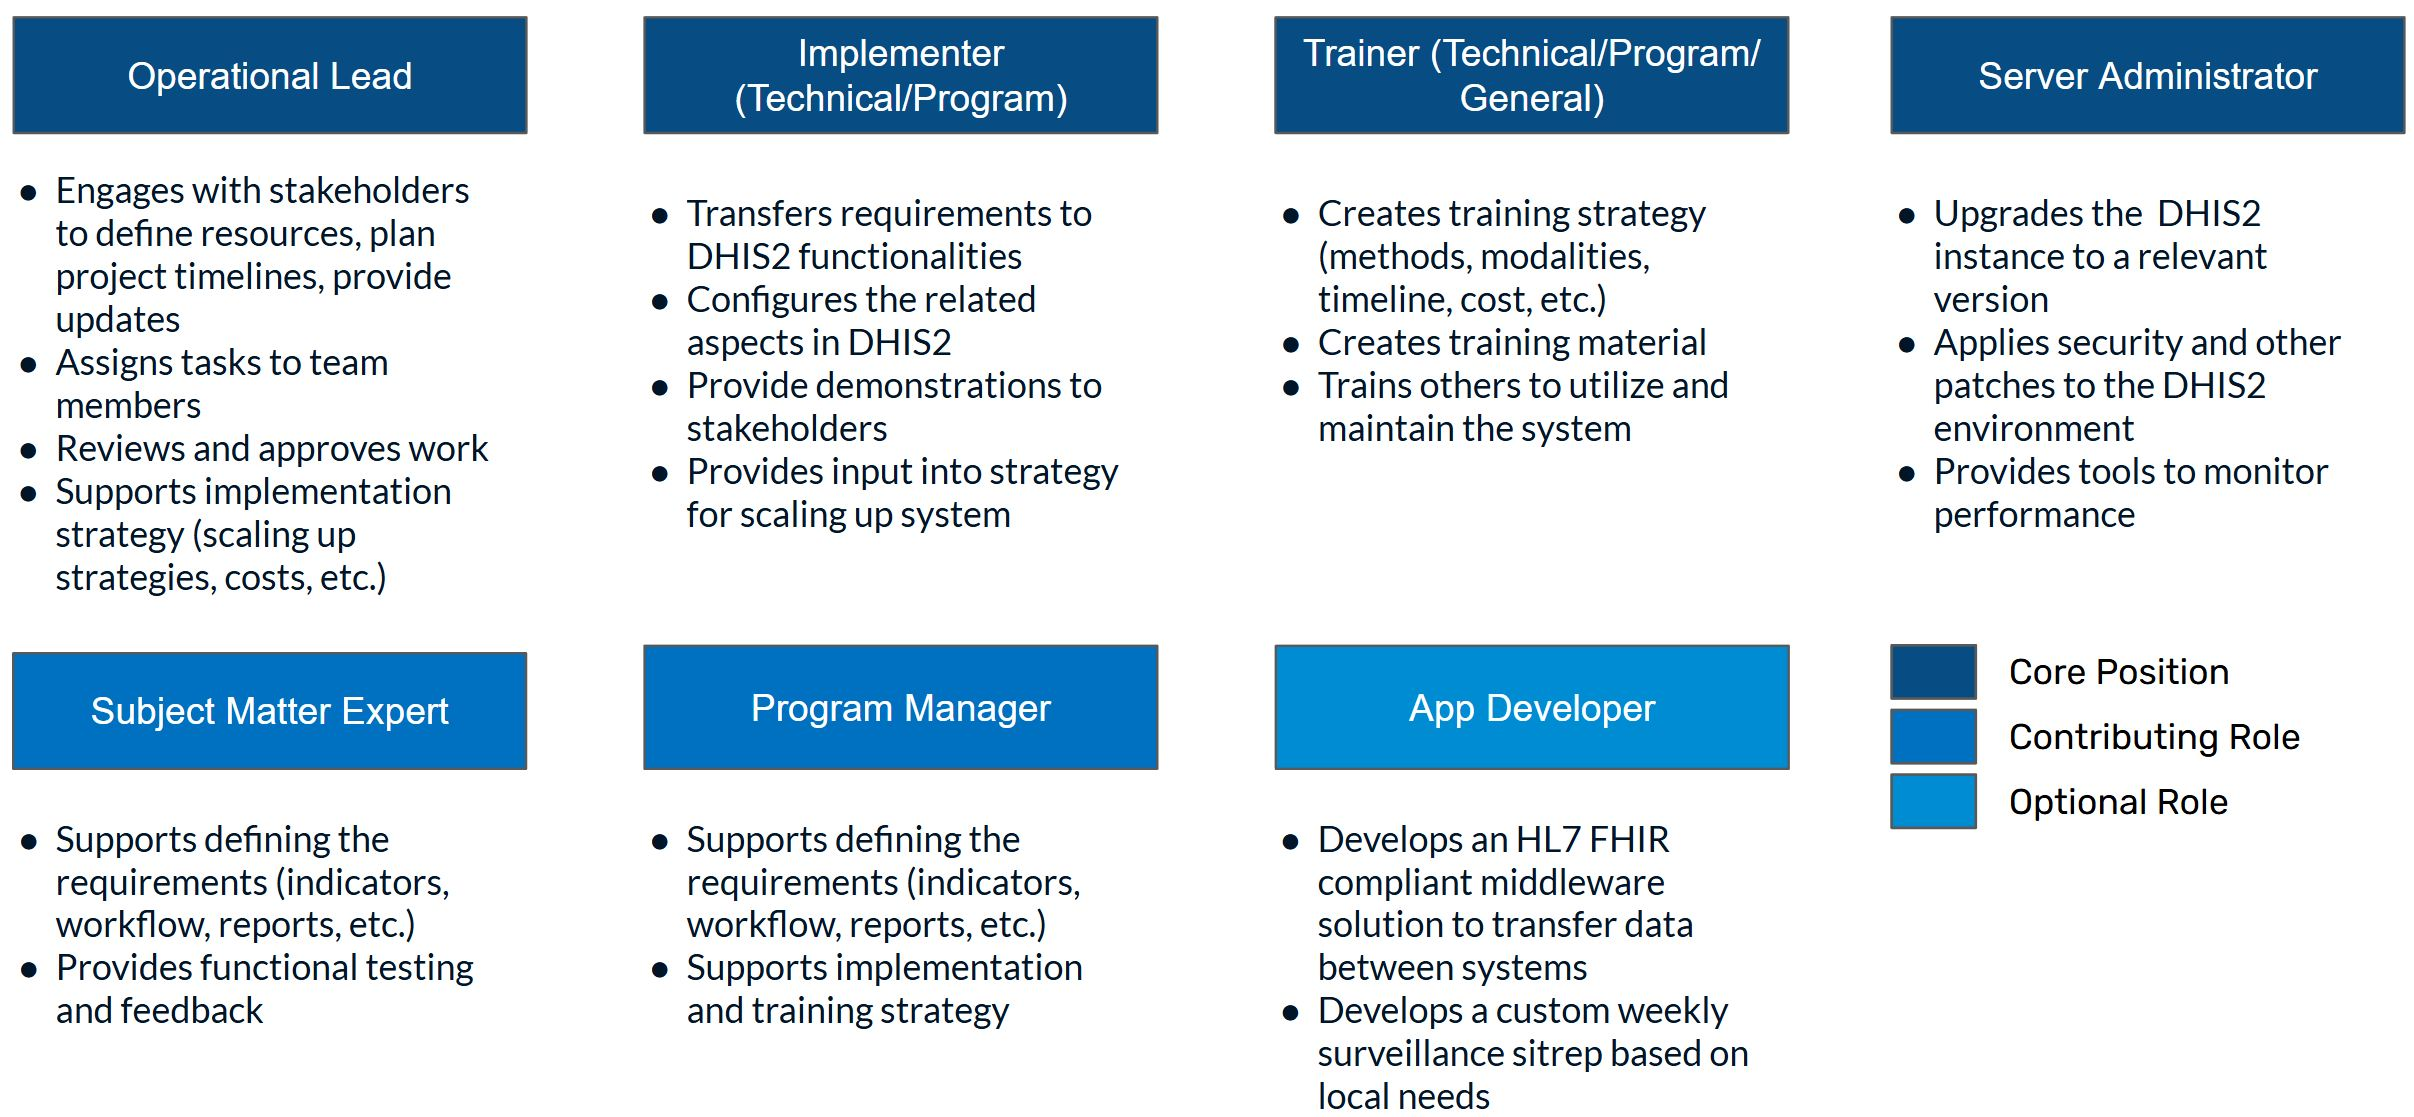
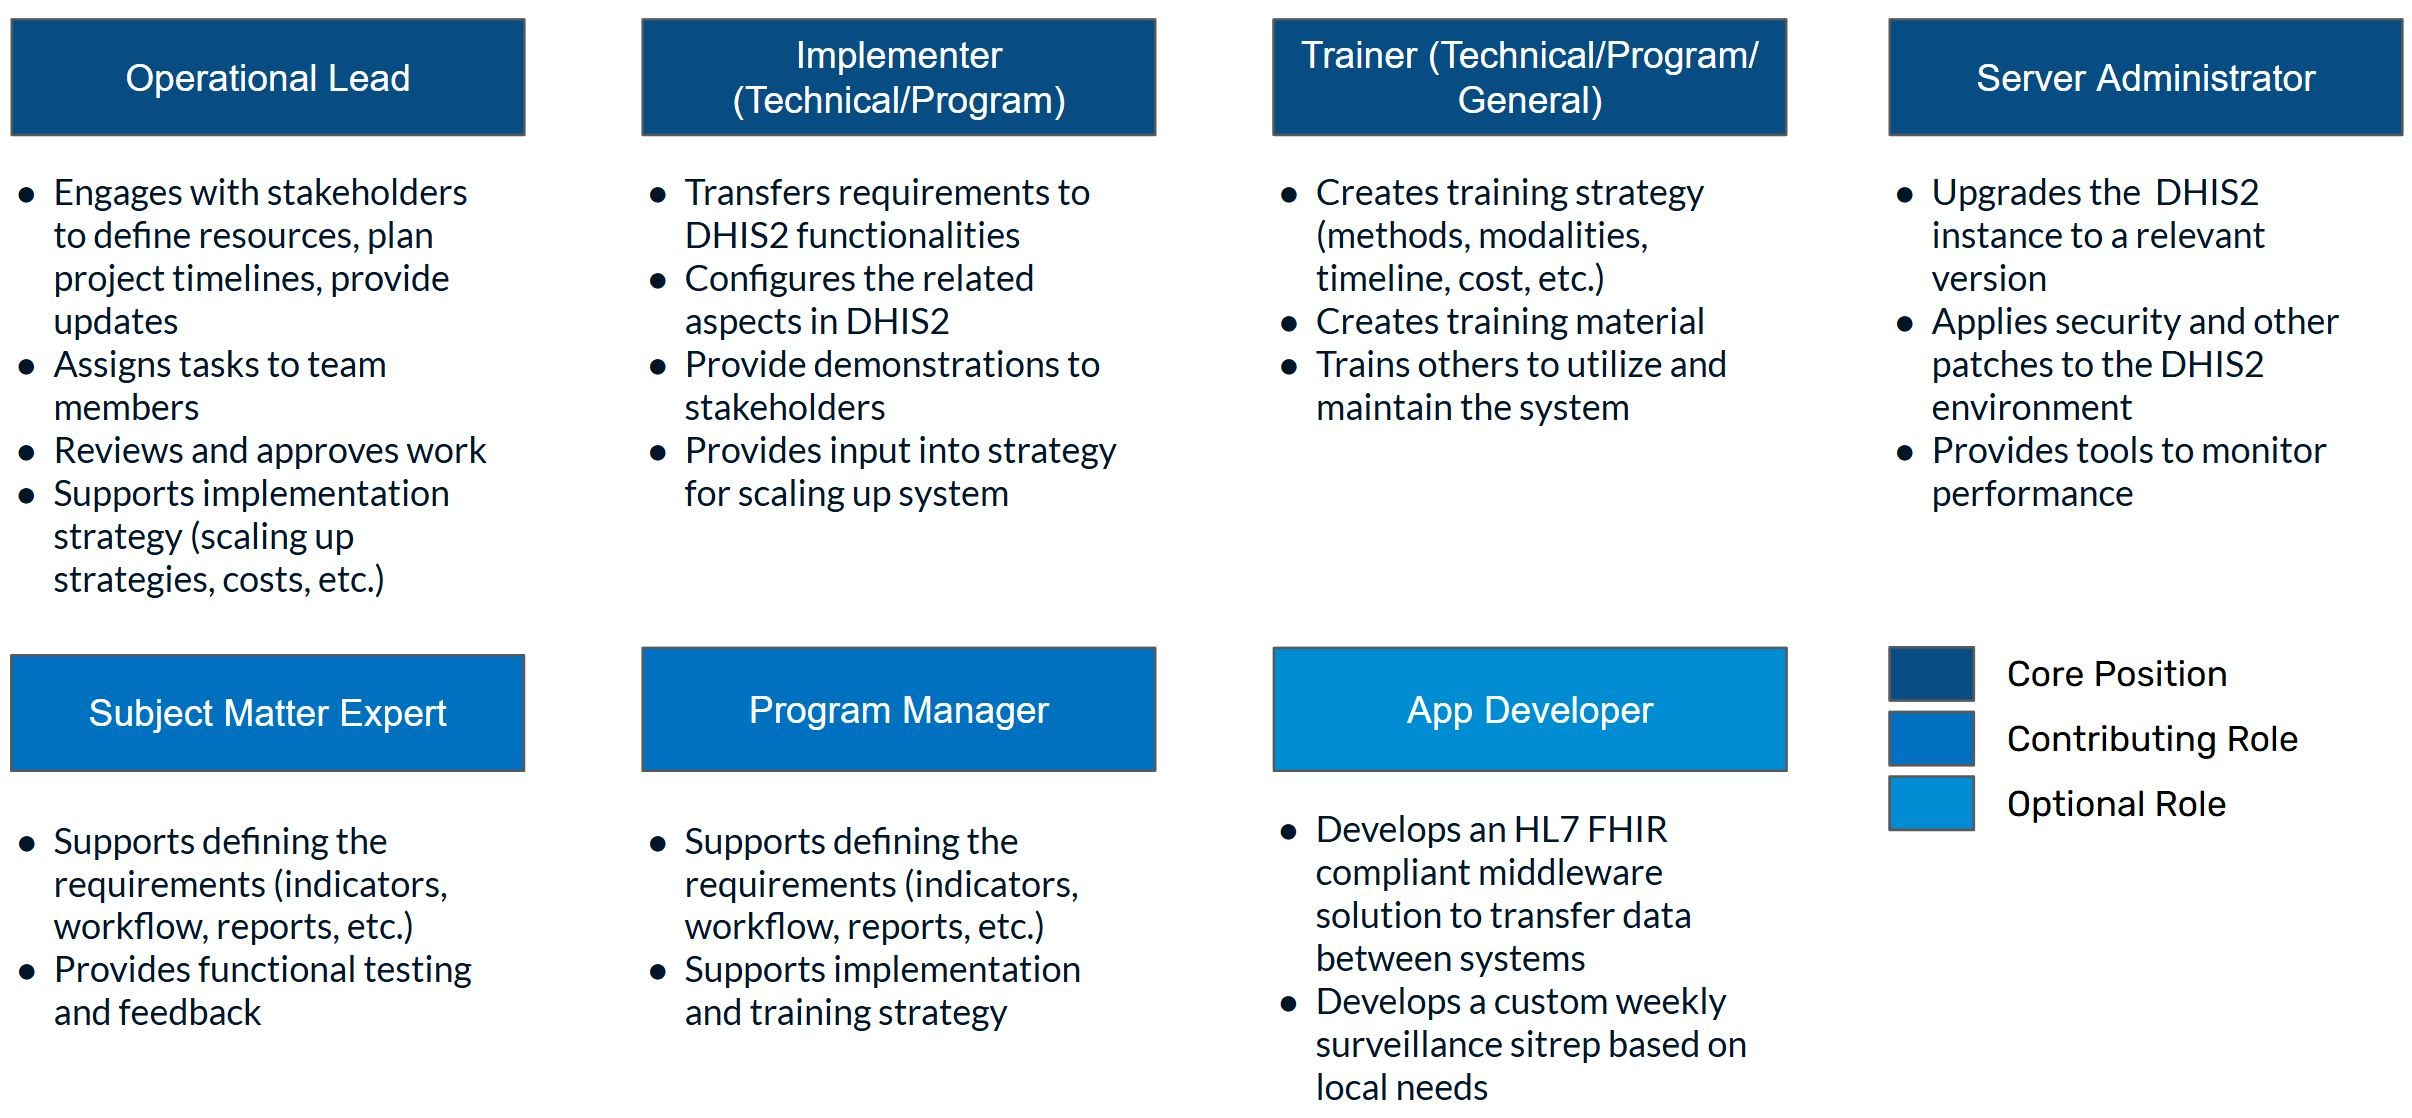
update core team routines

diff --git a/content/implementation/core-team-04-routines.md b/content/implementation/core-team-04-routines.md
@@ -47,8 +47,6 @@ These phases are summarized in the diagram below, referencing the core team role
 
 *Figure 1: Core team roles with phases*
 
-### Monitoring team development 
-
 ## Governance
 
 A full detailed breakdown of governance as it relates to DHIS2 can be found [here](https://docs.google.com/presentation/d/1hY7KG0axxENjBfXVf3hRTHKMyIrDgWAQVUNJ2CkPzS0/edit?slide=id.g123699e563d_0_163#slide=id.g123699e563d_0_163); however it is important to note the core teams role within this structure. 
@@ -87,7 +85,7 @@ It then becomes important for the core team to put thought and effort into caref
 
 ### Organizational
 
-Each time the core team works on a project, they will have distinct responsibilities. This is not to say a core team  members responsibilities do not overlap (for example, the implementers and trainer's may be the same people); however it is necessary to define clear roles for each member of the team. Using an example, we can outline how the team can work together. Note that, in this example, *core, contributing and optional roles* are all part of implementing this solution. Depending on the phase in which this the team currently is in, external support may be needed to support or fill in these various roles. 
+Each time the core team works on a project, they will have distinct responsibilities. This is not to say a core team  members responsibilities will not overlap (for example, the implementers and trainer's may be the same people); however it is necessary to define clear roles for each member of the team. Using an example, we can outline how the team can work together. Note that, in this example, *core, contributing and optional roles* are all part of implementing this solution. Depending on the phase in which this the team currently is in, external support may be needed to support or fill in these various roles. 
 
 > **Example**
 >